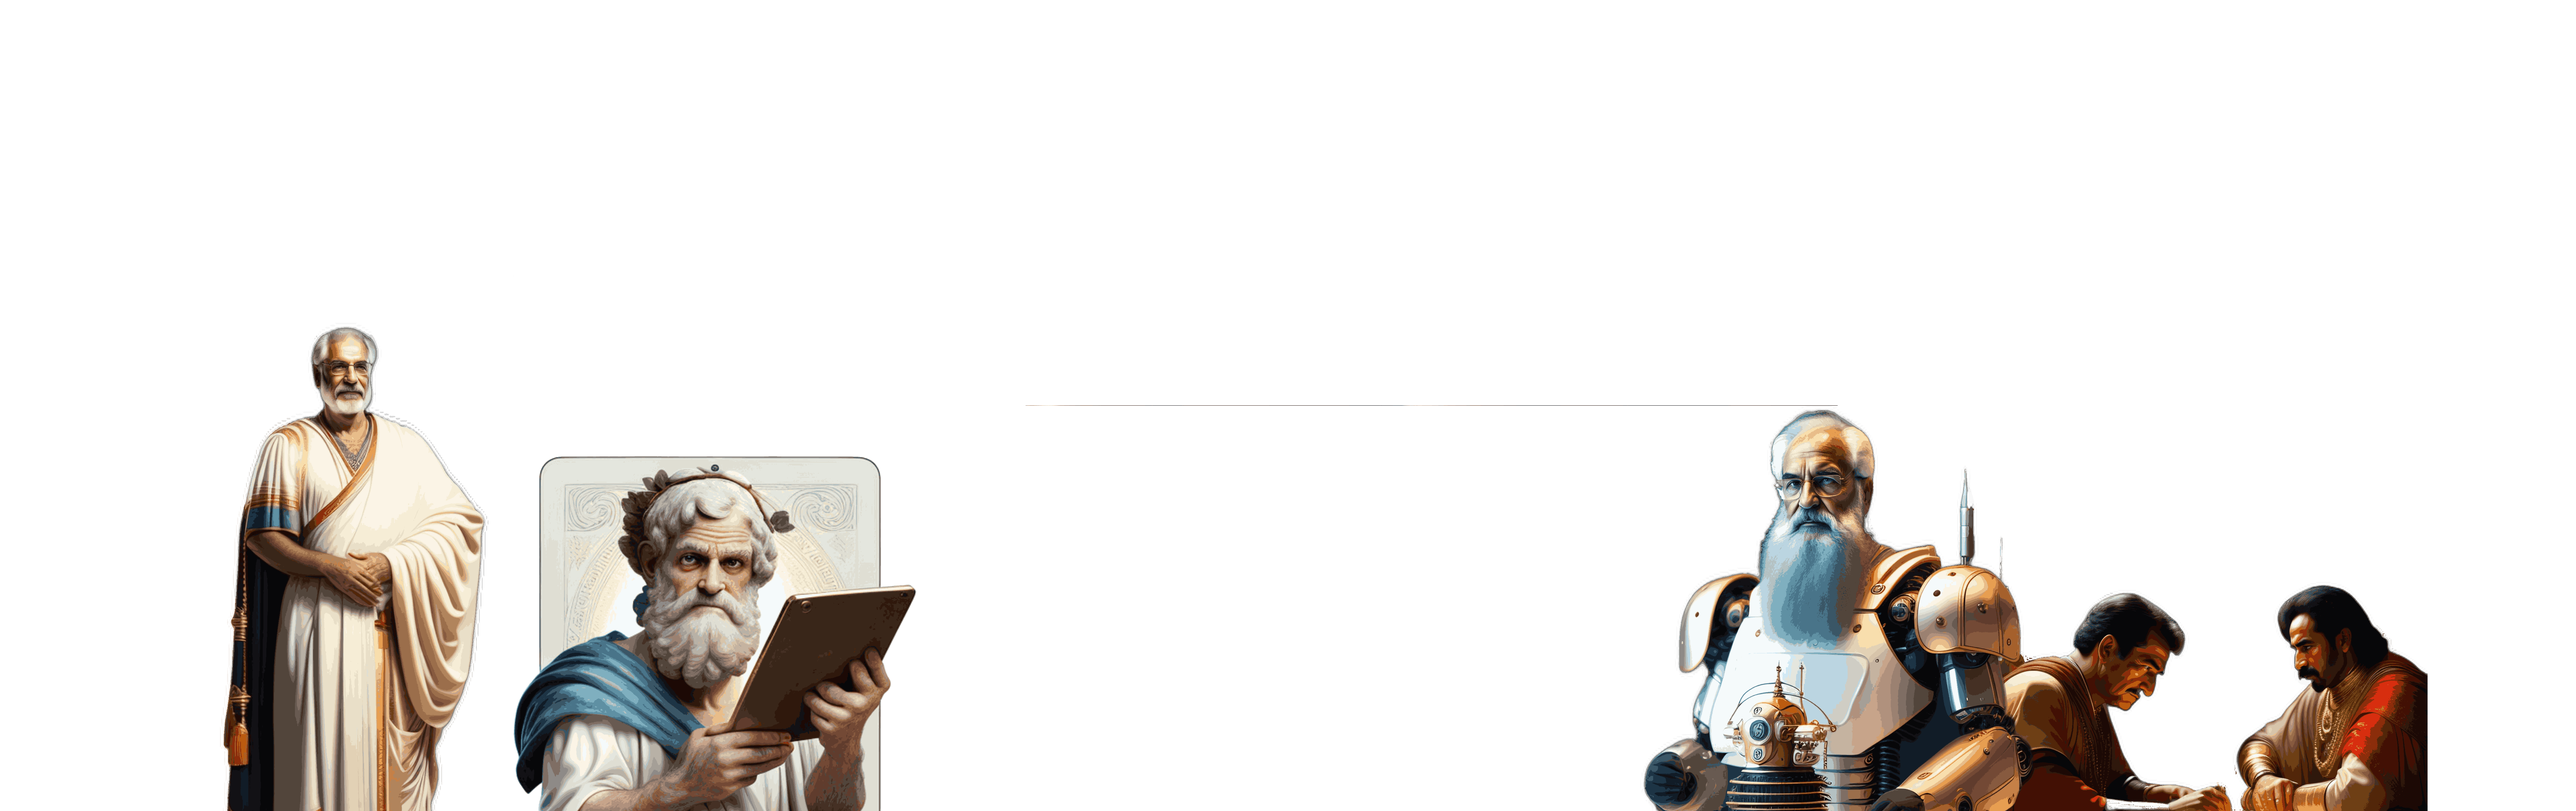
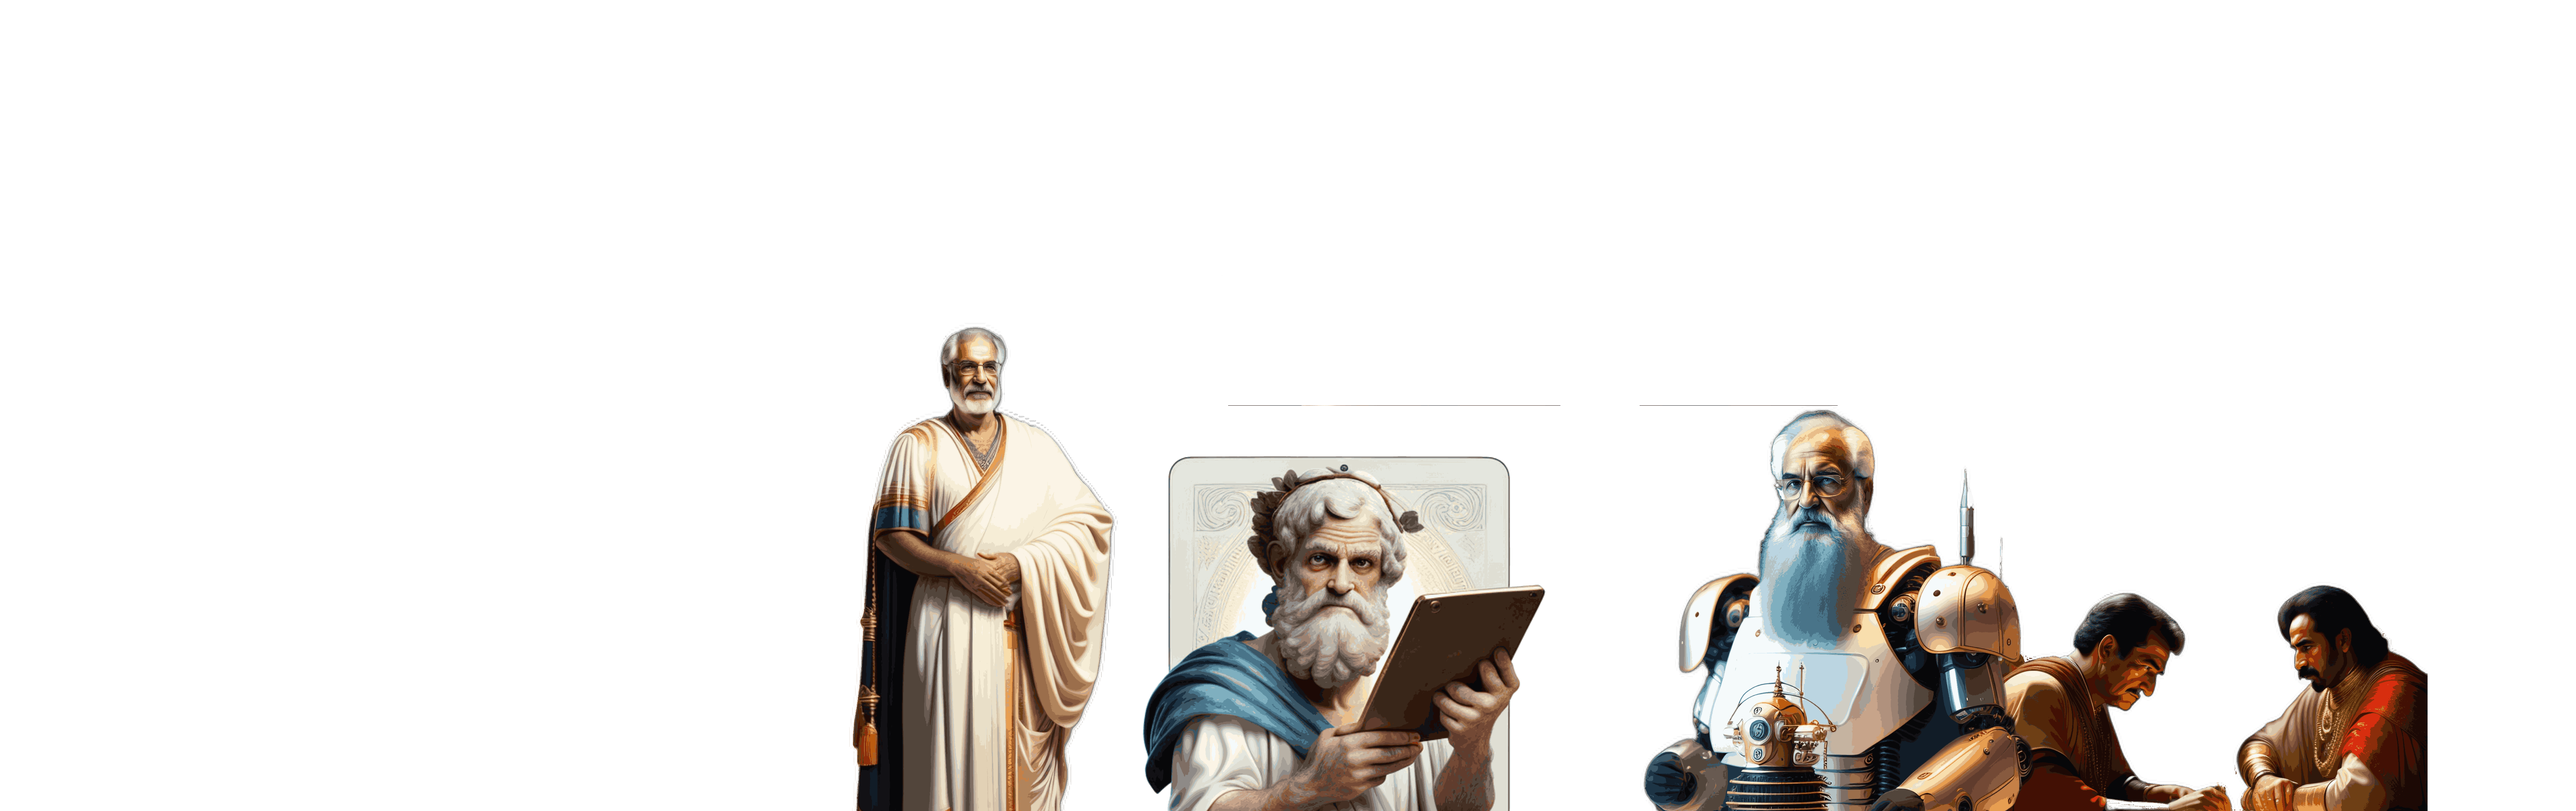
q3

Changed region(s): [[0.0625, 0.4022, 0.625, 1.0]]

diff --git a/index.html b/index.html
@@ -253,6 +253,9 @@
             display: flex;
             justify-content: center;
             align-items: center;
+            height: 100%;
+            width:100%;
+            flex-direction: column;
         }
         
         .image_vibhava {
@@ -274,45 +277,7 @@
  
       
 
-      <nav class="navbar navbar-expand-lg navbar-light bg-light fixed-top main-nav c25" id="mainNav">
-         <div class="container-fluid" style="padding-right:0; padding-left:0%;">
-            <!-- <a class="navbar-brand js-scroll-trigger navbar-title" href="#"><img src="images/Text-Logo.png" class="navbar-img"></a> -->
-            <button class="navbar-toggler" type="button" data-toggle="collapse" data-target="#navbarResponsive"
-               aria-controls="navbarResponsive" aria-expanded="false" aria-label="Toggle navigation"
-               style="padding: 0px 0px; margin: 0px 0px; border: none;">
-            <img style="width:60px; padding: 0px 0px; margin: 0px 0px; " src="images/nav.svg">
-            </button>
-            <div class="collapse navbar-collapse" id="navbarResponsive">
-               <ul class="navbar-nav ml-auto navbar-list">
-                  <li class="nav-item">
-                     <a class="nav-link js-scroll-trigger" href="#about">About</a>
-                  </li>
-                  <!-- <li class="nav-item">
-                     <a class="nav-link js-scroll-trigger" href="#themes">Themes</a>
-                     </li> -->
-                  <li class="nav-item">
-                     <a class="nav-link js-scroll-trigger" href="#faq">Events</a>
-                  </li>
-                  <!-- <li class="nav-item">
-                     <a class="nav-link js-scroll-trigger" href="#prize-section">Prizes</a>
-                     </li> -->
-                  <li class="nav-item">
-                     <a class="nav-link js-scroll-trigger" href="#sponsors-page">Register</a>
-                  </li>
-                  <li class="nav-item">
-                     <a class="nav-link js-scroll-trigger" href="#contact">Contact</a>
-                  </li>
 
-                  <!-- <li class="nav-item">
-                     <a class="nav-link js-scroll-trigger" href="https://discord.gg/5HYbA8rWcp">Discord</a>
-                     </li> -->
-                  <!-- <li class="nav-item">
-                     <a class="nav-link js-scroll-trigger" href="projects.html">Projects</a>
-                     </li> -->
-               </ul>
-            </div>
-         </div>
-      </nav>
       <div class="home-page" style="overflow: hidden;">
          <div class="heading">
             <div class="container">
@@ -428,9 +393,9 @@
                         SOE EduFest
                      </h1>
                      <h4>31st Mar - 1st Apr</h4>
-                     <div class="flex-container">
-                            <img src="images\vibhava-LOGO-.png" alt="Image" class="image_vibhava">
-                     </div>
+                
+                     <img src="images/vibhava-LOGO-.png" class="we-back-img" alt="we are back">
+                     
                   </div>
                </div>
             </div>
